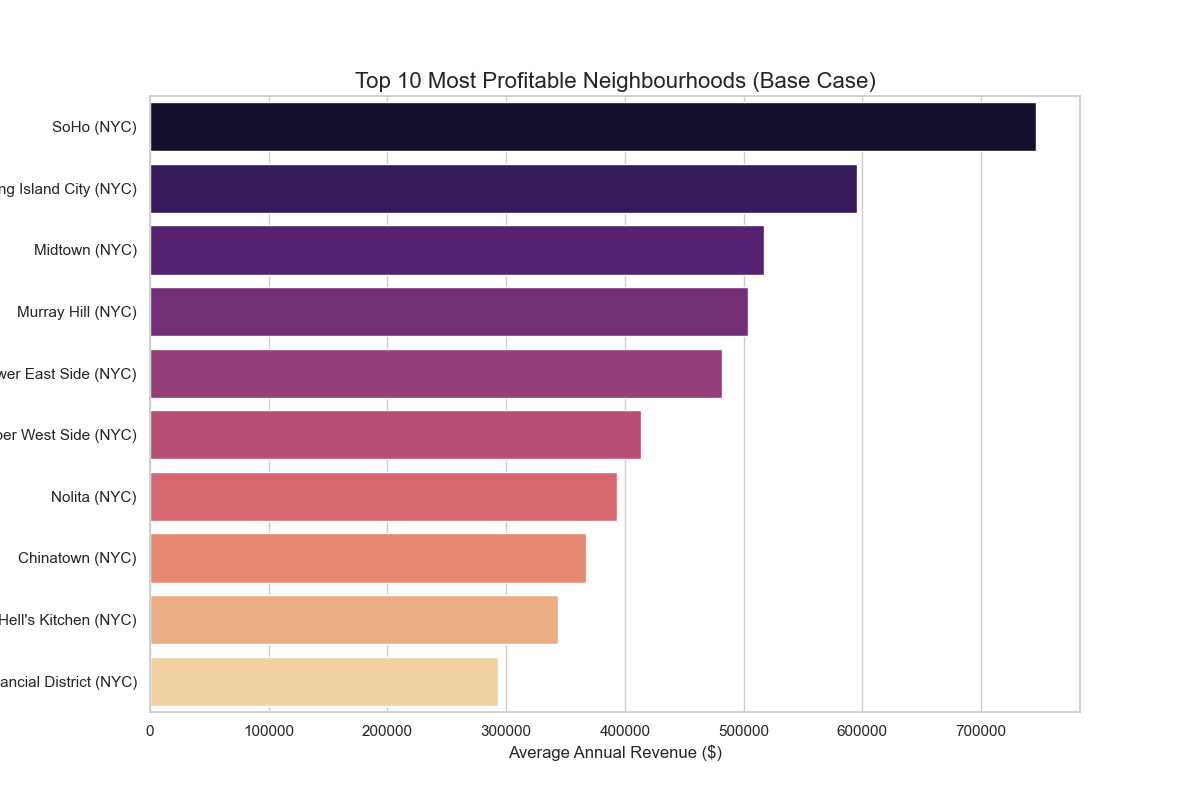
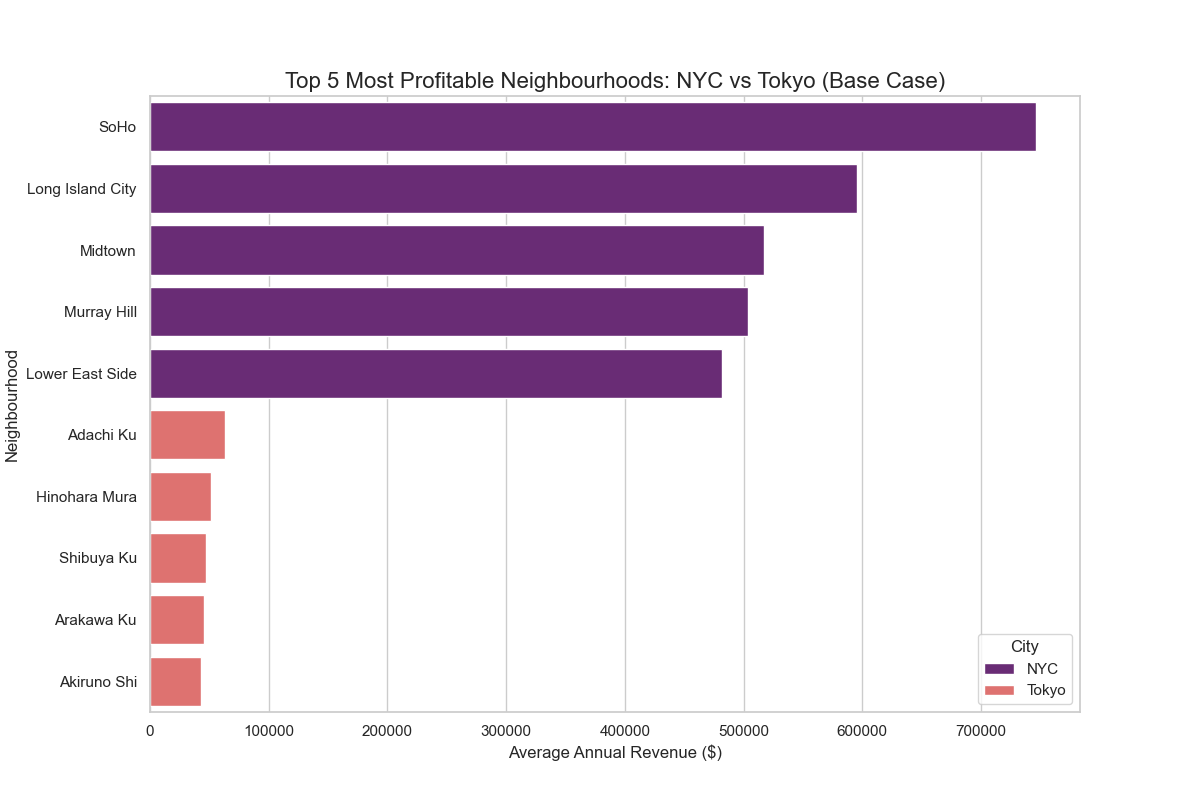
Fix: Show Top 5 neighbourhoods for BOTH cities

diff --git a/visualize_results.py b/visualize_results.py
@@ -38,12 +38,33 @@ def generate_visuals():
     print("✅ Created assets/revenue_scenarios.png")
     plt.close()
 
-    # 2. Top 10 Neighbourhoods by Yield (Base Case)
+    # 2. Top 10 Neighbourhoods by Yield (Base Case) - Top 5 from EACH City
     plt.figure(figsize=(12, 8))
-    top_neighborhoods = df.groupby(['city', 'neighbourhood'])['annual_revenue_realistic'].mean().sort_values(ascending=False).head(10)
-    sns.barplot(x=top_neighborhoods.values, y=[f"{n[1]} ({n[0]})" for n in top_neighborhoods.index], palette="magma")
-    plt.title("Top 10 Most Profitable Neighbourhoods (Base Case)", fontsize=16)
+    
+    # Calculate means per neighbourhood
+    nbhd_stats = df.groupby(['city', 'neighbourhood'])['annual_revenue_realistic'].mean().reset_index()
+    
+    # Get Top 5 for NYC and Top 5 for Tokyo
+    nyc_top = nbhd_stats[nbhd_stats['city'] == 'NYC'].sort_values('annual_revenue_realistic', ascending=False).head(5)
+    tokyo_top = nbhd_stats[nbhd_stats['city'] == 'Tokyo'].sort_values('annual_revenue_realistic', ascending=False).head(5)
+    
+    # Combine
+    top_neighborhoods = pd.concat([nyc_top, tokyo_top]).sort_values('annual_revenue_realistic', ascending=False)
+    
+    # Plot with hue to distinguish cities
+    sns.barplot(
+        data=top_neighborhoods,
+        x='annual_revenue_realistic',
+        y='neighbourhood',
+        hue='city',
+        dodge=False,
+        palette="magma"
+    )
+    
+    plt.title("Top 5 Most Profitable Neighbourhoods: NYC vs Tokyo (Base Case)", fontsize=16)
     plt.xlabel("Average Annual Revenue ($)", fontsize=12)
+    plt.ylabel("Neighbourhood", fontsize=12)
+    plt.legend(title="City")
     plt.savefig("assets/top_neighbourhoods.png")
     print("✅ Created assets/top_neighbourhoods.png")
     plt.close()
